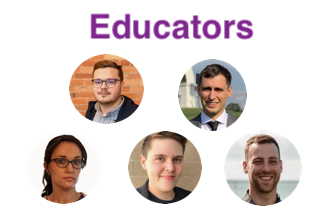
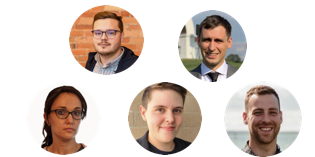
Update homepage

diff --git a/client/src/App.scss b/client/src/App.scss
@@ -1042,7 +1042,7 @@ input {
   top: 0;
   left: 0;
   width: 100%;
-  height: 53.5vh;
+  height: 67vh;
   overflow: hidden;
   background: no-repeat center center/cover;
 }
@@ -1073,13 +1073,12 @@ input {
   flex-direction: column;
   align-content: center;
   align-items: center;
-  margin-top: -17vh;
   z-index: 99;
   width: 100%;
   align-self: baseline;
 
   &__hero {
-    padding-bottom: -2rem;
+    padding-bottom: 0rem;
   }
 
   &__background-white {
@@ -1091,7 +1090,7 @@ input {
 .main {
   &__background {
     z-index: 0;
-    margin-top: -40vh;
+    margin-top: -8rem;
 
     // &--second {
     //   width: 100vw;
@@ -1110,7 +1109,7 @@ input {
     // }
       &--middle {
         z-index: -1;
-        margin-top: -5rem;
+        margin-top: -20rem;
       }
   }
 
@@ -1118,7 +1117,7 @@ input {
     display: flex;
     width: 100%;
     justify-content: space-around;
-    margin-top: -8rem;
+    margin-top: -13rem;
     flex-direction: row;
     font-size: 2rem;
     color: #000;
@@ -1133,17 +1132,16 @@ input {
     &-img {
       width: 30rem;
       z-index: 9;
-      padding-top: 11rem;
+      padding-top: 3rem;
       padding-right: 2rem;
     }
   }
   &__language {
 
-
     &-img {
       width: 15rem;
       z-index: 9;
-      padding-top: 11rem;
+      padding-top: 3rem;
       padding-left: 1rem;
     }
   }
@@ -1189,7 +1187,6 @@ input {
       flex-direction: column;
       justify-content: space-between;
       width: 100%;
-      background-color:#f3f4f5;
     }
   }
 }
@@ -1225,8 +1222,10 @@ input {
     margin-top: -8rem;
   }
 
+  
+
   &-educators {
-    margin-top: -5rem;
+    margin-top: 0rem;
   }
 
   &-family {
@@ -1235,14 +1234,27 @@ input {
   }
 }
 
+
 .about {
 
   &__text {
-    margin-top: -5rem;
+    margin-top: 0rem;
     z-index: 9;
     display: flex;
     flex-direction: row;
     justify-content: space-around;
+    &-container {
+      margin-top: -2rem;
+    }
+
+    &-thanks {
+      display: flex;
+      flex-direction: row;
+      width: 100%;
+      justify-content: space-around;
+      margin-top: -5rem;
+      
+    }
   }
 
   &__one{
@@ -1255,6 +1267,15 @@ input {
     z-index: 1;
     background-color: #f3f4f5;
 
+    &-family {
+      margin-top: -2rem;
+      z-index: -1111;
+    }
+
+    &-contact {
+
+    }
+
     &-background {
       width: 100vw;
       margin-top: -18rem;
@@ -1262,7 +1283,7 @@ input {
     }
 
     &-bottom {
-      margin-top: 0rem;
+      margin-top: -1rem;
       z-index: 0;
     }
 

diff --git a/server/routes/auth.js b/server/routes/auth.js
@@ -1,63 +1,60 @@
-const router = require("express").Router();
-const passport = require("passport");
+const router = require('express').Router();
+const passport = require('passport');
 
-const CLIENT_URL = "http://localhost:3000/";
+const CLIENT_URL = 'http://localhost:3000/';
 
-router.get("/login/success", (req, res) => {
+router.get('/login/success', (req, res) => {
   if (req.user) {
     res.status(200).json({
       success: true,
-      message: "successful",
+      message: 'successful',
       user: req.user,
     });
   }
 });
 
-router.get("/login/failed", (req, res) => {
+router.get('/login/failed', (req, res) => {
   res.status(401).json({
     success: false,
-    message: "failure",
+    message: 'failure',
   });
 });
 
-router.get("/logout", (req, res) => {
+router.get('/logout', (req, res) => {
   req.logout();
   res.redirect(CLIENT_URL);
 });
 
-router.get("/google", passport.authenticate("google", { scope: ["profile"] }));
+router.get('/google', passport.authenticate('google', { scope: ['profile'] }));
 
 router.get(
-  "/google/callback",
-  passport.authenticate("google", {
+  '/google/callback',
+  passport.authenticate('google', {
     successRedirect: CLIENT_URL,
-    failureRedirect: "/login/failed",
+    failureRedirect: '/login/failed',
+  })
+);
+
+router.get('/github', passport.authenticate('github', { scope: ['profile'] }));
+
+router.get(
+  '/github/callback',
+  passport.authenticate('github', {
+    successRedirect: CLIENT_URL,
+    failureRedirect: '/login/failed',
   })
 );
 
 router.get(
-  "/github",
-  passport.authenticate("github", { scope: ["profile"] })
+  '/facebook',
+  passport.authenticate('facebook', { scope: ['profile'] })
 );
 
 router.get(
-  "/github/callback",
-  passport.authenticate("github", {
+  'facebook/callback',
+  passport.authenticate('facebook', {
     successRedirect: CLIENT_URL,
-    failureRedirect: "/login/failed",
-  })
-);
-
-router.get(
-  "/facebook",
-  passport.authenticate("facebook", { scope: ["profile"] })
-);
-
-router.get(
-  "facebook/callback",
-  passport.authenticate("facebook", {
-    successRedirect: CLIENT_URL,
-    failureRedirect: "/login/failed",
+    failureRedirect: '/login/failed',
   })
 );
 

diff --git a/client/src/Pages/Homepage/Homepage.js b/client/src/Pages/Homepage/Homepage.js
@@ -126,7 +126,7 @@ const Homepage = () => {
           </div>
         </div>
         <svg
-          className="about__one-bottom"
+          className="about__one-accurate"
           xmlns="http://www.w3.org/2000/svg"
           viewBox="0 0 1440 320"
         >
@@ -193,8 +193,9 @@ const Homepage = () => {
             d="M0,128L60,117.3C120,107,240,85,360,106.7C480,128,600,192,720,192C840,192,960,128,1080,101.3C1200,75,1320,85,1380,90.7L1440,96L1440,320L1380,320C1320,320,1200,320,1080,320C960,320,840,320,720,320C600,320,480,320,360,320C240,320,120,320,60,320L0,320Z"
           ></path>
         </svg>
-        <div className="about__text">
+        <div className="about__text-thanks">
           <div className="about__text-container">
+            <h1>Educators</h1>
             <p className="main__text-one">
               <img
                 className="main__text-educators"
@@ -213,7 +214,7 @@ const Homepage = () => {
           </div>
         </div>
         <svg
-          className="about__one-bottom"
+          className="about__one-family"
           xmlns="http://www.w3.org/2000/svg"
           viewBox="0 0 1440 320"
         >
@@ -255,7 +256,7 @@ const Homepage = () => {
           </div>
         </div>
         <svg
-          className="about__one-bottom"
+          className="about__one-contact"
           xmlns="http://www.w3.org/2000/svg"
           viewBox="0 0 1440 320"
         >
